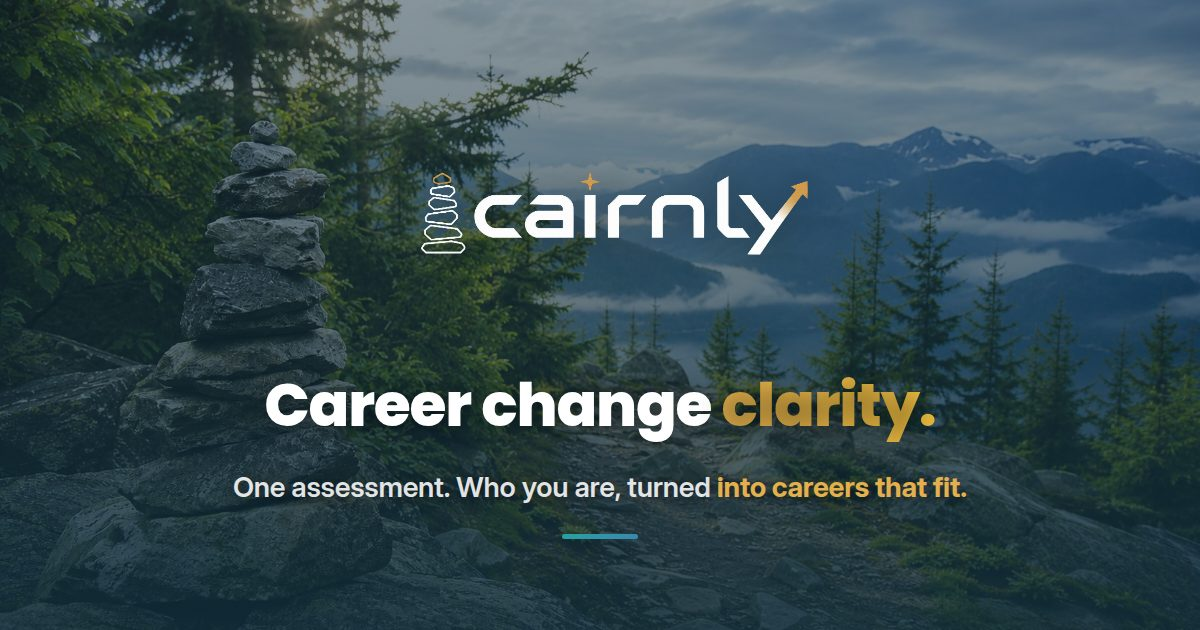
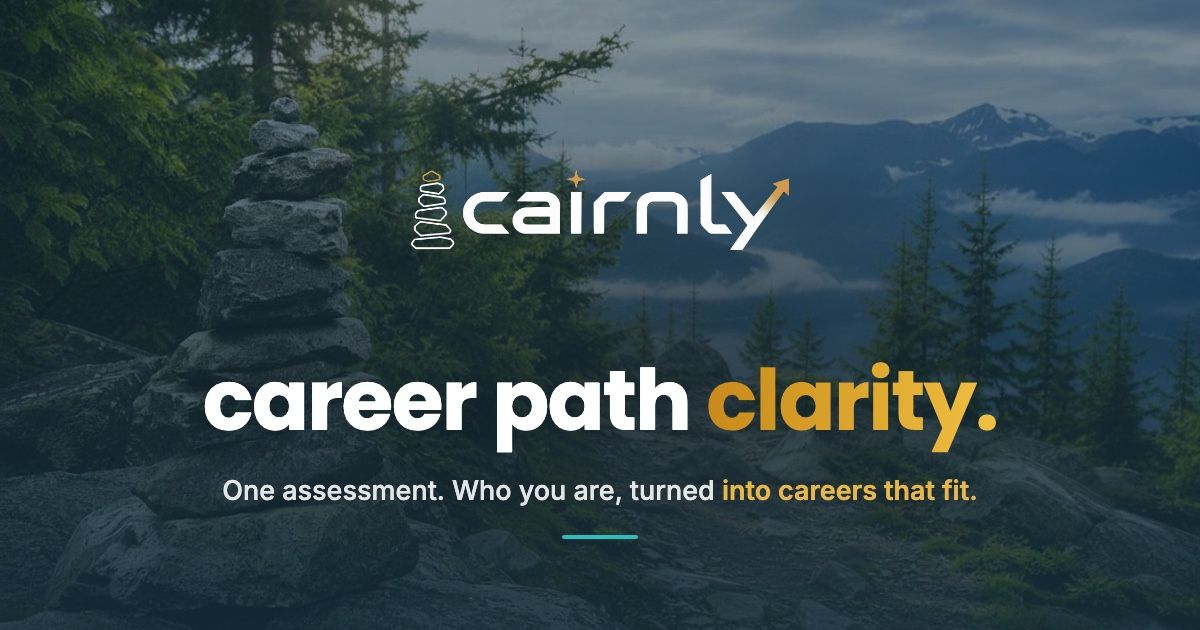
SEO: share card and default meta say 'career path clarity.'
- public/og-card.jpg rebuilt: same photo (old card with its text removed),
  headline now 'career path clarity.' in lowercase with the gold period
- editable source in scripts/og-card/ (it had none, which is how the old
  wording survived)
- default title 'Cairnly: career path clarity. Find a career that fits.'
  and a new description, both without em-dashes

diff --git a/scripts/og-card/og-card.html b/scripts/og-card/og-card.html
@@ -1,0 +1,32 @@
+<!doctype html><html><head><meta charset="utf-8">
+<!--
+  Source of public/og-card.jpg, the 1200x630 link-preview image (2026-09-28).
+  og-clean.jpg is the old card with its text removed (Gemini image edit), so
+  the photo stays identical. Change the text here, then render and convert:
+
+    open -na "Google Chrome" --args --headless=new --disable-gpu --hide-scrollbars \
+      --force-device-scale-factor=1 --window-size=1200,630 --virtual-time-budget=8000 \
+      --screenshot=/tmp/og.png "file://$PWD/scripts/og-card/og-card.html"
+    sips -s format jpeg -s formatOptions 88 /tmp/og.png --out public/og-card.jpg
+
+  (Chrome via `open -na`, never puppeteer: see the headless-Chrome memory.)
+  Link previews cache: re-scrape in LinkedIn's Post Inspector after deploying.
+-->
+<link href="https://fonts.googleapis.com/css2?family=Poppins:wght@700&family=Inter:wght@500;600&display=block" rel="stylesheet">
+<style>
+html,body{margin:0;width:1200px;height:630px;overflow:hidden;background:#1d2f3a}
+.card{position:relative;width:1200px;height:630px;background:url(og-clean.jpg) center/cover no-repeat}
+.shade{position:absolute;inset:0;background:radial-gradient(ellipse 70% 55% at 50% 62%,rgba(18,32,42,.55),rgba(18,32,42,0) 70%)}
+.inner{position:absolute;inset:0;display:flex;flex-direction:column;align-items:center;text-align:center}
+.logo{margin-top:168px;width:380px;height:auto}
+h1{margin:108px 0 0;font:700 84px/1 Poppins,sans-serif;letter-spacing:-.02em;color:#fff}
+h1 span{background:linear-gradient(90deg,#C8891A 0%,#F0C040 100%);-webkit-background-clip:text;background-clip:text;color:transparent}
+p{margin:30px 0 0;font:500 27px/1.3 Inter,sans-serif;color:rgba(255,255,255,.88)}
+p span{color:#E6B64A;font-weight:600}
+.rule{margin-top:26px;width:76px;height:4px;border-radius:2px;background:#2ABFBF}
+</style></head><body><div class="card"><div class="shade"></div><div class="inner">
+<img class="logo" src="../../src/logos/live/cairnly_logo_wordmark_inverted_tight.png">
+<h1>career path <span>clarity.</span></h1>
+<p>One assessment. Who you are, turned <span>into careers that fit.</span></p>
+<div class="rule"></div>
+</div></div></body></html>

diff --git a/src/lib/seo.ts b/src/lib/seo.ts
@@ -17,9 +17,9 @@ export const SITE_URL = 'https://www.cairnly.io';
  * description/OG/Twitter tags, to avoid duplicate conflicting tags once
  * <Seo> mounts (see index.html for why).
  */
-export const DEFAULT_TITLE = 'Cairnly — Career path clarity. Find a career that fits.';
+export const DEFAULT_TITLE = 'Cairnly: career path clarity. Find a career that fits.';
 export const DEFAULT_DESCRIPTION =
-  "Thinking about a career change? Cairnly's assessment matches your personality, skills, and goals to careers that actually fit — with an AI career coach to talk it through.";
+  "Looking for career path clarity? Cairnly's assessment matches your personality, skills and goals to careers that actually fit, with an AI career coach to talk it through.";
 // Dedicated 1200x630 share card (public/og-card.jpg): the cairn-trail photo
 // with the brand overlay, rendered via headless browser — not the raw logo.
 export const DEFAULT_OG_IMAGE = `${SITE_URL}/og-card.jpg`;

diff --git a/index.html b/index.html
@@ -16,7 +16,7 @@
          per-page. Duplicating them here would create two conflicting copies
          of each tag once React mounts, since Helmet can only replace tags it
          rendered itself, not static markup. -->
-    <title>Cairnly — Career path clarity. Find a career that fits.</title>
+    <title>Cairnly: career path clarity. Find a career that fits.</title>
     <meta name="author" content="Cairnly" />
 
     <link rel="icon" type="image/png" href="/logos/favicon.png" />
